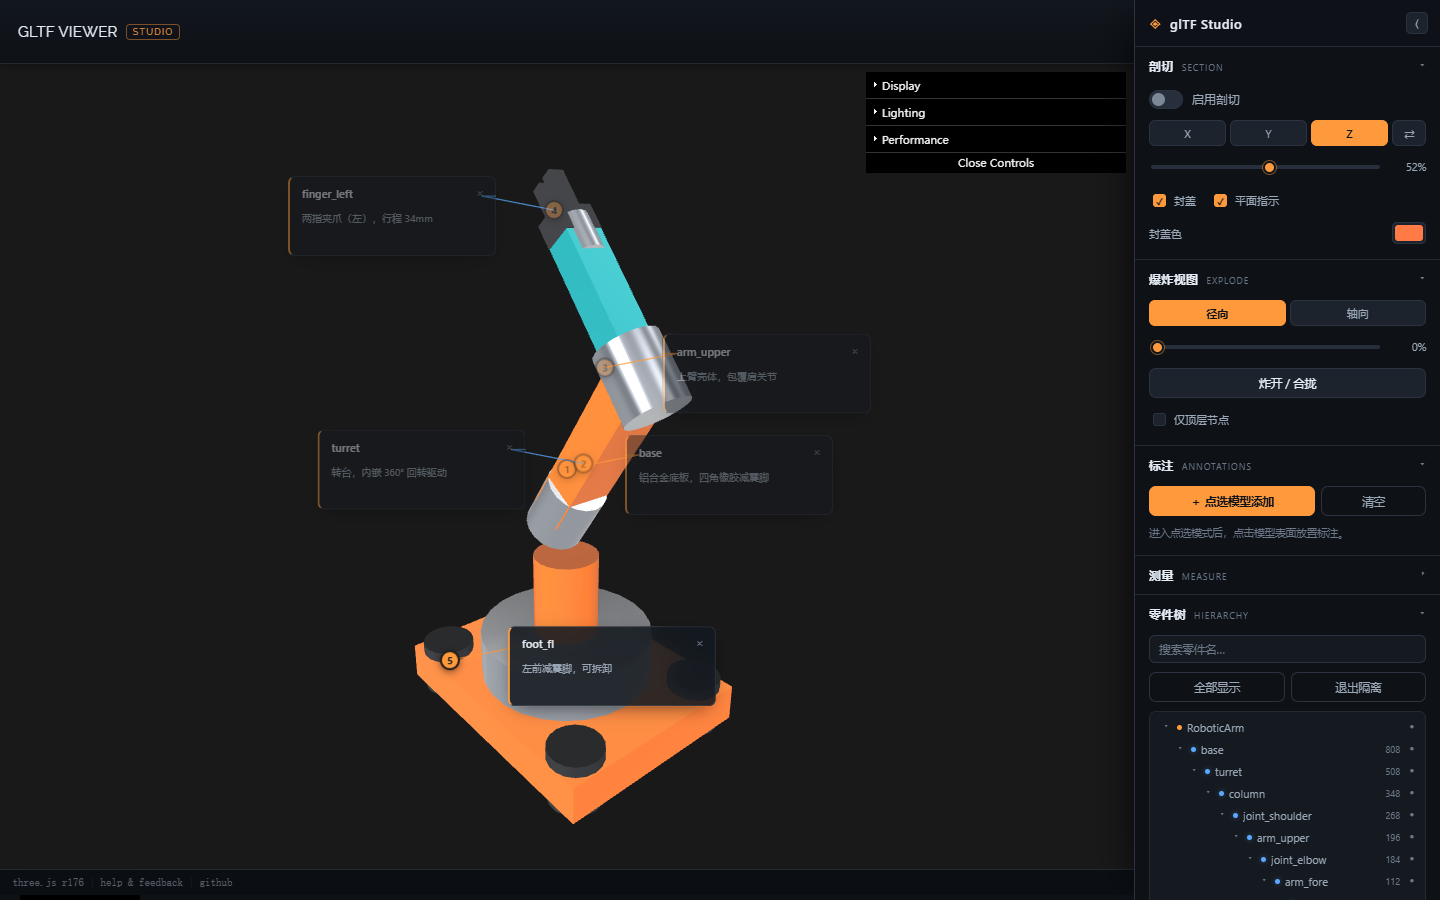
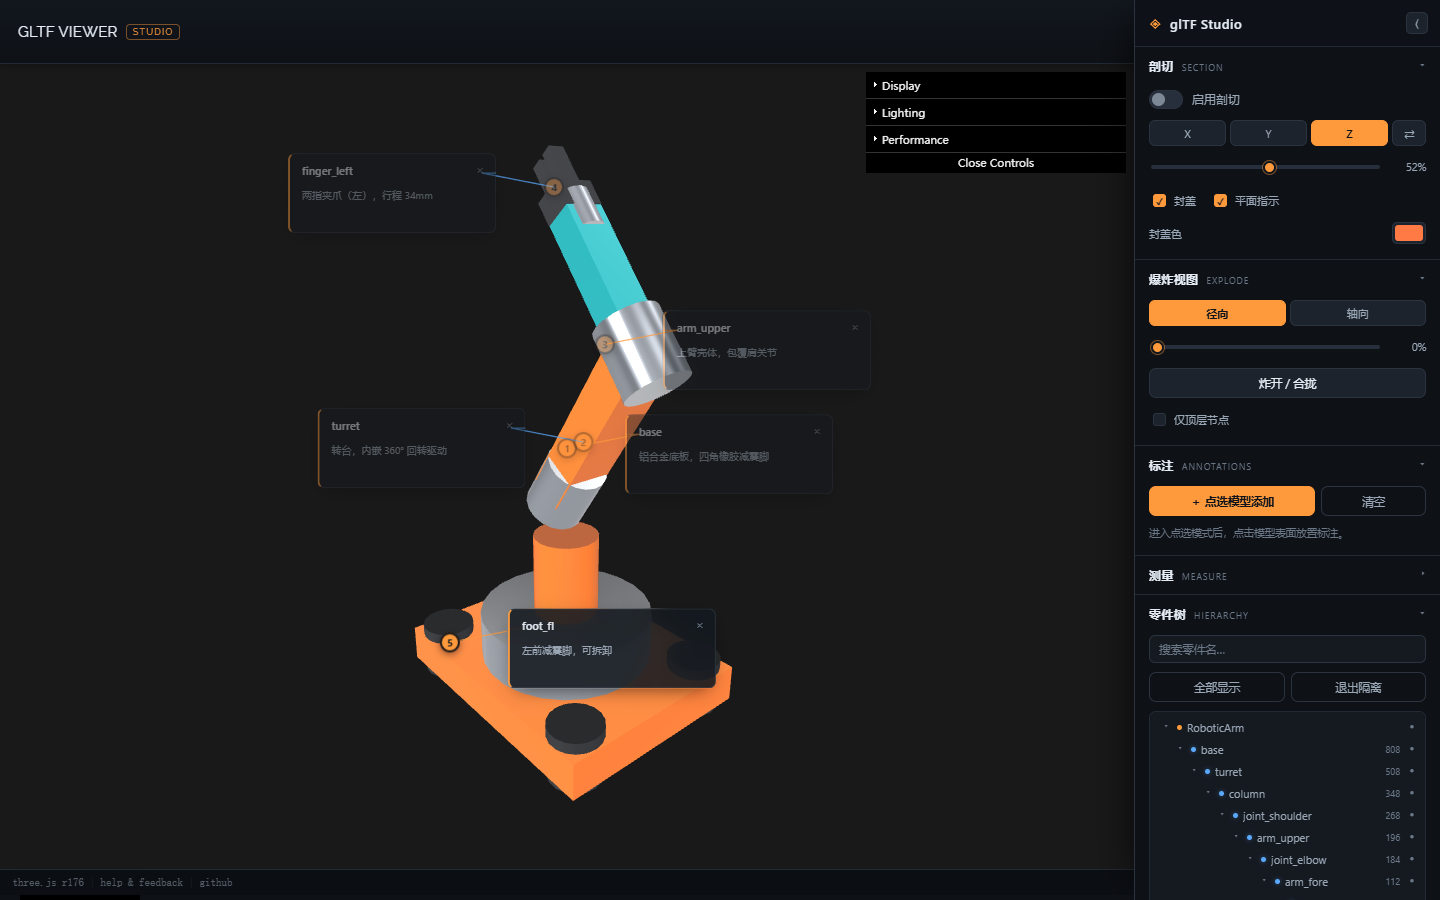
fix: centre the model on its projected bounding box, not on the origin
After the object is moved to the origin the origin is not necessarily the
visual centre. This sample is a wide base with a thin arm, so the bounding
box centre sits below the origin and the model hugged the bottom edge:
105px of headroom on top versus 51px at the bottom at 1440x900.

centerContentOnScreen() projects the eight box corners to NDC and nudges
controls.target by the vertical residual. Measured after the change:
top gap 82px, bottom gap 73px, horizontal centre 573px against a 567px
target — within 6px on both axes.

Only the vertical axis is corrected on purpose. Horizontal placement is
already handled by setViewOffset using the panel width; applying the shift
there too pushed the model from 573px to 700px.

diff --git a/src/viewer.js b/src/viewer.js
@@ -227,6 +227,63 @@ export class Viewer {
 		cam.updateProjectionMatrix();
 	}
 
+	/**
+	 * 把模型包围盒的屏幕投影居中到"面板之外的可视区"。
+	 *
+	 * 做法：把包围盒 8 个角投影到 NDC，算出投影框的中心与原点（NDC 0,0）的偏差，
+	 * 再用 controls.target 把这个偏差补回去 —— 只平移观察目标，不改相机朝向，
+	 * 所以轨道拖动的旋转中心仍然是模型，手感不变。
+	 *
+	 * @param {THREE.Object3D} object
+	 * @param {{fullW:number, fullH:number, w:number, h:number}} vp
+	 */
+	centerContentOnScreen(object, vp) {
+		const cam = this.defaultCamera;
+		cam.updateMatrixWorld();
+
+		const box = new Box3().setFromObject(object);
+		if (box.isEmpty()) return;
+
+		const v = new Vector3();
+		let minX = Infinity;
+		let maxX = -Infinity;
+		let minY = Infinity;
+		let maxY = -Infinity;
+
+		for (let i = 0; i < 8; i++) {
+			v.set(
+				i & 1 ? box.max.x : box.min.x,
+				i & 2 ? box.max.y : box.min.y,
+				i & 4 ? box.max.z : box.min.z,
+			).project(cam);
+			minX = Math.min(minX, v.x);
+			maxX = Math.max(maxX, v.x);
+			minY = Math.min(minY, v.y);
+			maxY = Math.max(maxY, v.y);
+		}
+
+		const cx = (minX + maxX) / 2;
+		const cy = (minY + maxY) / 2;
+		if (!isFinite(cx) || !isFinite(cy)) return;
+
+		// 只修正垂直方向。
+		// 水平方向已经由 setViewOffset 按面板宽度处理过，再叠加一次会重复偏移
+		// （实测会把模型从 573px 推到 700px，明显偏右）。
+		const dist = cam.position.distanceTo(this.controls.target) || 1;
+		const halfH = dist * Math.tan(((cam.fov * Math.PI) / 180) / 2);
+
+		const right = new Vector3();
+		const up = new Vector3();
+		cam.matrixWorld.extractBasis(right, up, new Vector3());
+
+		const shift = new Vector3().addScaledVector(up, cy * halfH);
+
+		this.controls.target.add(shift);
+		cam.position.add(shift);
+		cam.lookAt(this.controls.target);
+		this.controls.update();
+	}
+
 	/** 计算当前"面板之外可视区"的宽高（用于取景距离） */
 	getEffectiveViewport() {
 		const fullW = this.el.clientWidth || 1;
@@ -376,6 +433,11 @@ export class Viewer {
 			this.defaultCamera.lookAt(new Vector3());
 			this.controls.target.set(0, 0, 0);
 			this.controls.update();
+
+			// 收尾微调：按包围盒的实际屏幕投影做一次居中。
+			// 只看原点是不够的 —— 模型平移后原点未必是它的视觉中心
+			// （例如机械臂的底座宽、上臂细长，包围盒中心会偏下）。
+			this.centerContentOnScreen(object, vp);
 		}
 
 		this.setCamera(DEFAULT_CAMERA);
